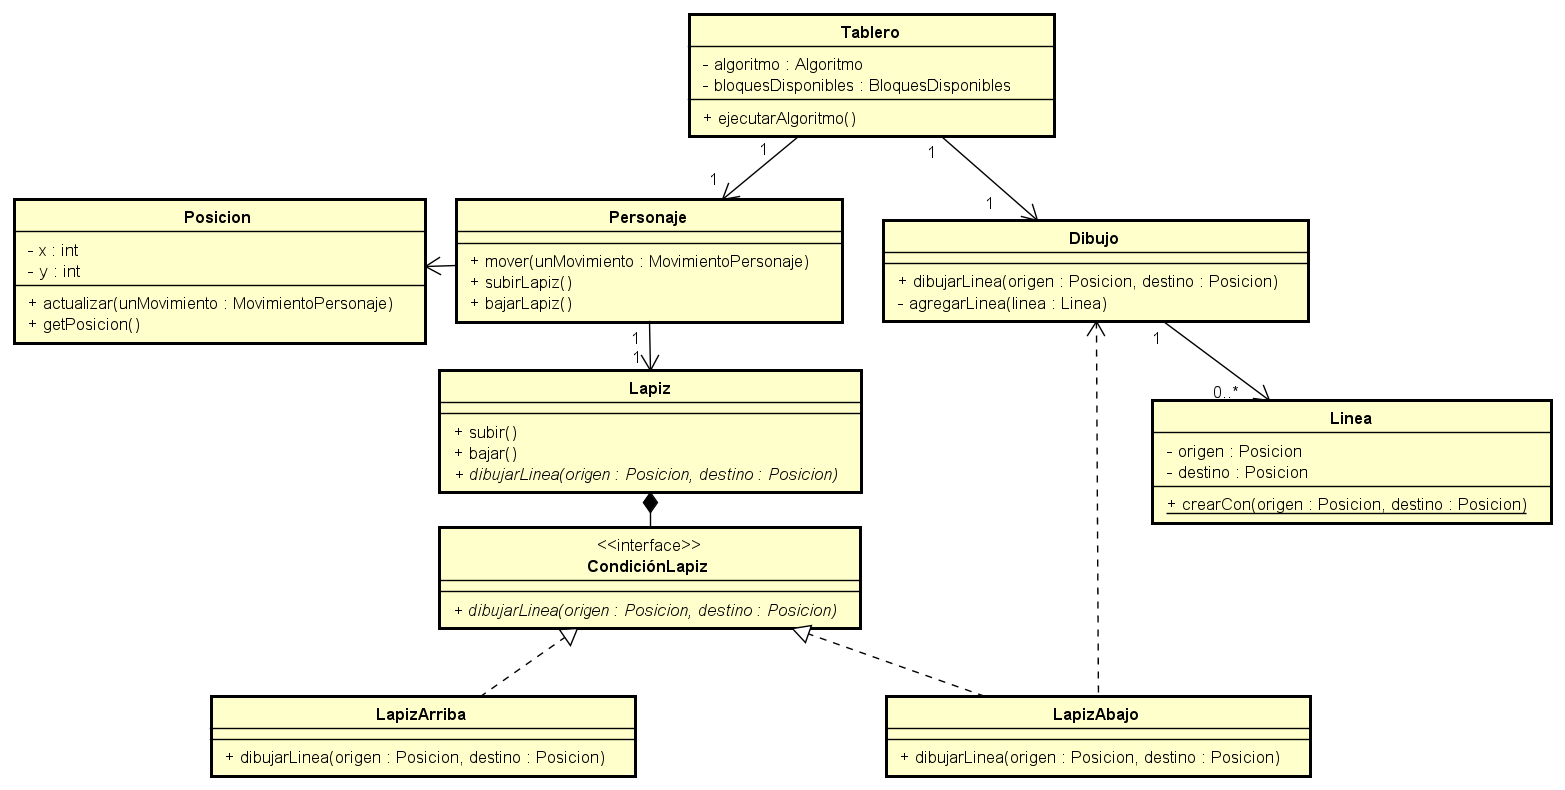
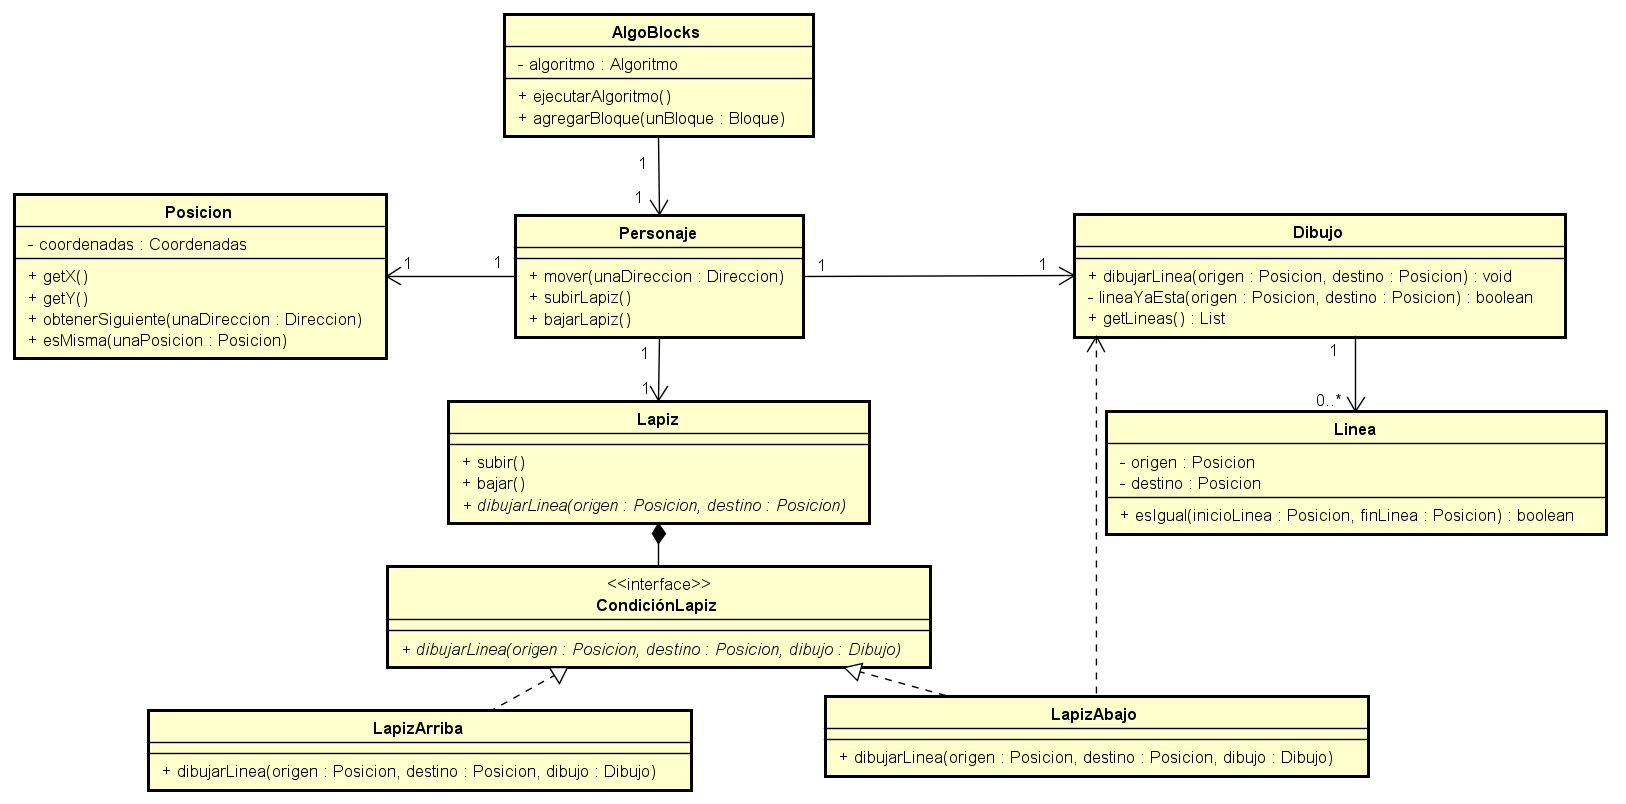
Edit Diagramas de Clase
Actualizo diagramas de clase.
El metodo lineaYaEsta ahora se llama lineaYaExiste y es privado

Changed region(s): [[0.0, 0.2127, 0.9815, 1.0], [0.3067, 0.0, 0.6748, 0.1823], [0.6748, 0.4861, 1.0, 0.6684]]

diff --git a/src/main/java/tp2/Dibujo.java b/src/main/java/tp2/Dibujo.java
@@ -7,11 +7,12 @@ public class Dibujo {
     List<Linea> lineas = new ArrayList<>();
 
     public void dibujarLinea(Posicion origen, Posicion destino) {
-        if(!this.lineaYaEsta(origen, destino)){
+        if(!this.lineaYaExiste(origen, destino)){
             lineas.add(new Linea(origen, destino));
         }
     }
-    public boolean lineaYaEsta(Posicion origen, Posicion destino){
+
+    private boolean lineaYaExiste(Posicion origen, Posicion destino){
         for (Linea linea: lineas) {
             if(linea.esIgual(origen, destino)){
                  return true;

diff --git a/src/main/java/tp2/Linea.java b/src/main/java/tp2/Linea.java
@@ -9,6 +9,7 @@ public class Linea {
         origen = inicioLinea;
         destino = finLinea;
     }
+
     public boolean esIgual(Posicion inicioLinea, Posicion finLinea) {
         return ((origen.esMisma(inicioLinea) && destino.esMisma(finLinea)) || (origen.esMisma(finLinea) && destino.esMisma(inicioLinea)));
     }
